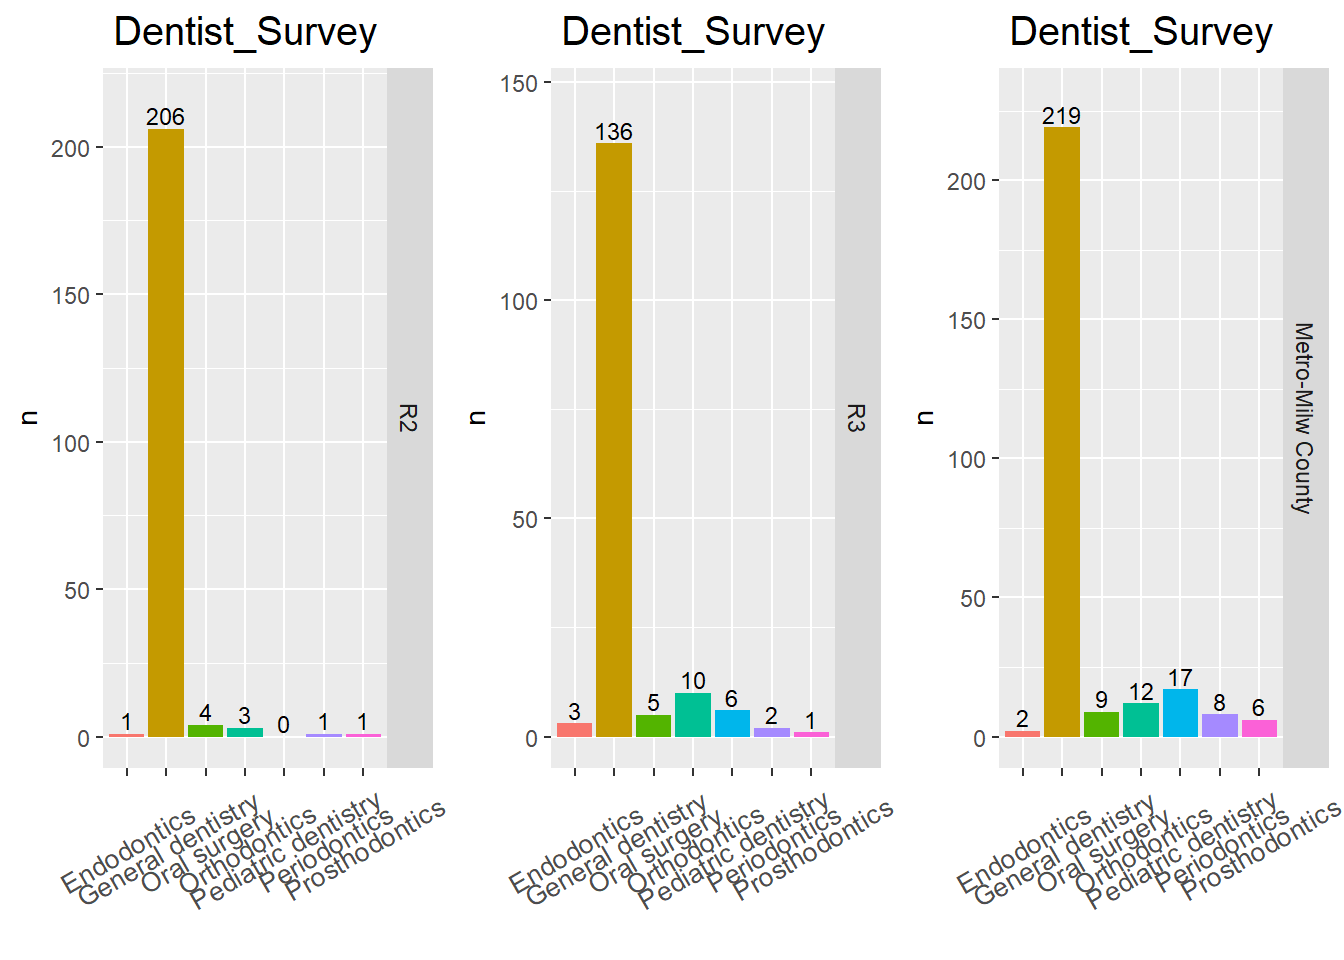
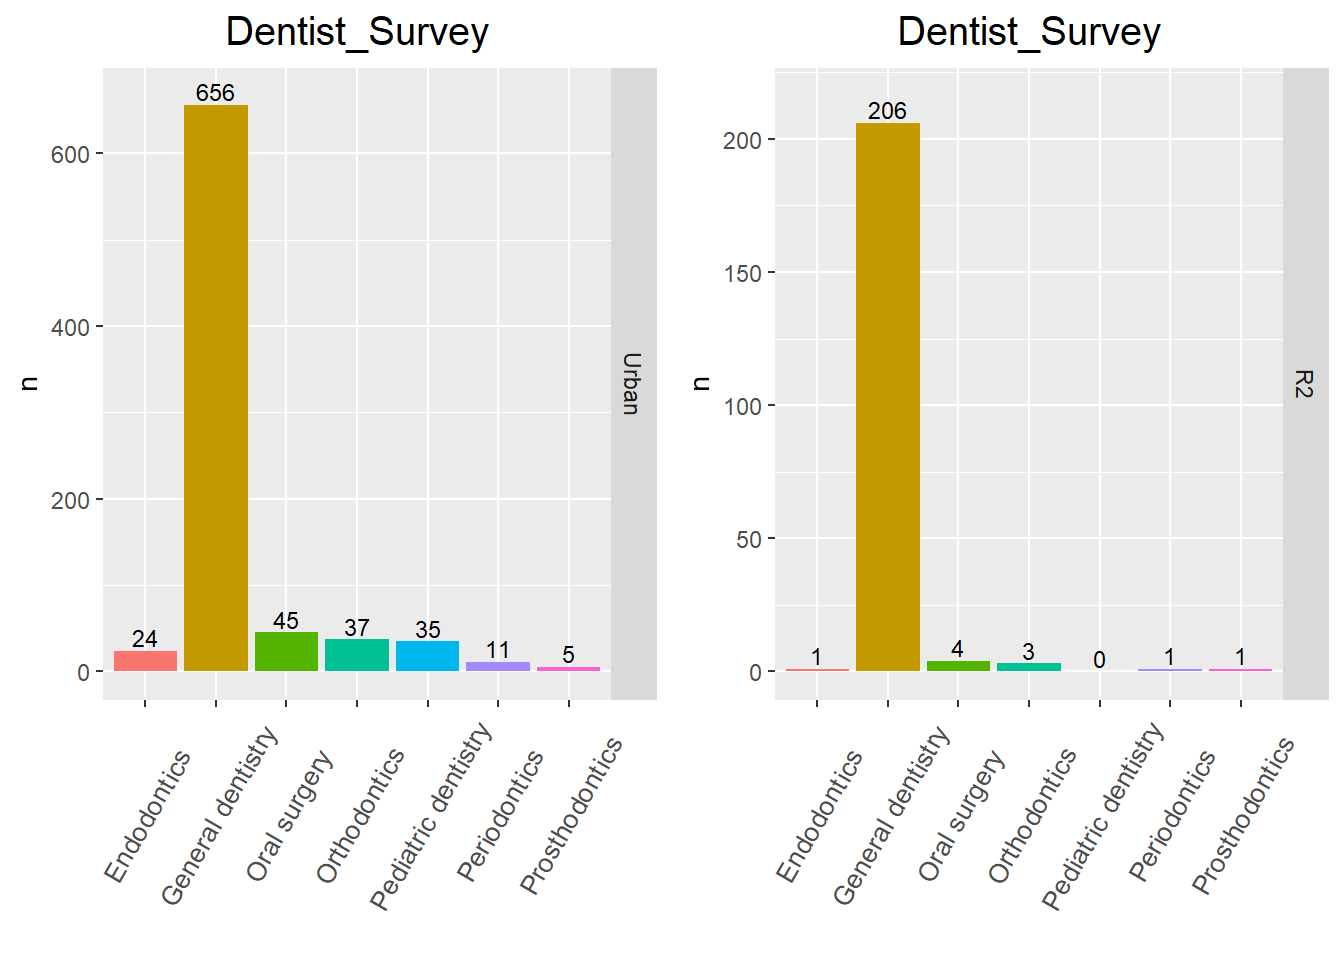
8/20/2024

diff --git a/docs/2024_0701_survey.html b/docs/2024_0701_survey.html
@@ -414,7 +414,7 @@ aria-hidden="true"></span> </a>
 <div class="tab-content">
 <div id="summary" class="tab-pane fade in active">
 <p>
-<strong>Last updated:</strong> 2024-08-16
+<strong>Last updated:</strong> 2024-08-20
 </p>
 <p>
 <strong>Checks:</strong> <span
@@ -574,15 +574,15 @@ analysis/Rfunctions.R
 <div class="panel panel-default">
 <div class="panel-heading">
 <p class="panel-title">
-<a data-toggle="collapse" data-parent="#workflowr-checks" href="#strongRepositoryversionstrongahrefhttpsgithubcomhan16Collaborationstreeb0b512ab0e8bbdc3198281baf00938adc002ccf1targetblankb0b512aa">
+<a data-toggle="collapse" data-parent="#workflowr-checks" href="#strongRepositoryversionstrongahrefhttpsgithubcomhan16Collaborationstree810a5b03eb7ce469937551267e6cfb4833933025targetblank810a5b0a">
 <span class="glyphicon glyphicon-ok text-success"
 aria-hidden="true"></span> <strong>Repository version:</strong>
-<a href="https://github.com/han16/Collaborations/tree/b0b512ab0e8bbdc3198281baf00938adc002ccf1" target="_blank">b0b512a</a>
+<a href="https://github.com/han16/Collaborations/tree/810a5b03eb7ce469937551267e6cfb4833933025" target="_blank">810a5b0</a>
 </a>
 </p>
 </div>
 <div
[2 lines of base64/hex data omitted]
 class="panel-collapse collapse">
 <div class="panel-body">
 <p>
@@ -592,7 +592,7 @@ reproducibility.
 </p>
 <p>
 The results in this page were generated with repository version
-<a href="https://github.com/han16/Collaborations/tree/b0b512ab0e8bbdc3198281baf00938adc002ccf1" target="_blank">b0b512a</a>.
+<a href="https://github.com/han16/Collaborations/tree/810a5b03eb7ce469937551267e6cfb4833933025" target="_blank">810a5b0</a>.
 See the <em>Past versions</em> tab to see a history of the changes made
 to the R Markdown and HTML files.
 </p>
@@ -658,6 +658,40 @@ Message
 </tr>
 </thead>
 <tbody>
+<tr>
+<td>
+Rmd
+</td>
+<td>
+<a href="https://github.com/han16/Collaborations/blob/810a5b03eb7ce469937551267e6cfb4833933025/analysis/2024_0701_survey.Rmd" target="_blank">810a5b0</a>
+</td>
+<td>
+han
+</td>
+<td>
+2024-08-16
+</td>
+<td>
+8/16/2024
+</td>
+</tr>
+<tr>
+<td>
+html
+</td>
+<td>
+<a href="https://rawcdn.githack.com/han16/Collaborations/810a5b03eb7ce469937551267e6cfb4833933025/docs/2024_0701_survey.html" target="_blank">810a5b0</a>
+</td>
+<td>
+han
+</td>
+<td>
+2024-08-16
+</td>
+<td>
+8/16/2024
+</td>
+</tr>
 <tr>
 <td>
 Rmd
@@ -1320,6 +1354,17 @@ Date
 <tbody>
 <tr>
 <td>
+<a href="https://github.com/han16/Collaborations/blob/810a5b03eb7ce469937551267e6cfb4833933025/docs/figure/2024_0701_survey.Rmd/unnamed-chunk-4-1.png" target="_blank">810a5b0</a>
+</td>
+<td>
+han
+</td>
+<td>
+2024-08-16
+</td>
+</tr>
+<tr>
+<td>
 <a href="https://github.com/han16/Collaborations/blob/6f9829aa17a61172a647e0faf5641a6bbc4419b2/docs/figure/2024_0701_survey.Rmd/unnamed-chunk-4-1.png" target="_blank">6f9829a</a>
 </td>
 <td>
@@ -1440,6 +1485,17 @@ Date
 <tbody>
 <tr>
 <td>
+<a href="https://github.com/han16/Collaborations/blob/810a5b03eb7ce469937551267e6cfb4833933025/docs/figure/2024_0701_survey.Rmd/unnamed-chunk-5-1.png" target="_blank">810a5b0</a>
+</td>
+<td>
+han
+</td>
+<td>
+2024-08-16
+</td>
+</tr>
+<tr>
+<td>
 <a href="https://github.com/han16/Collaborations/blob/d2b6989234f39215aa94b73a95f4ff8c7fdff404/docs/figure/2024_0701_survey.Rmd/unnamed-chunk-5-1.png" target="_blank">d2b6989</a>
 </td>
 <td>
@@ -1543,6 +1599,17 @@ Date
 </tr>
 </thead>
 <tbody>
+<tr>
+<td>
+<a href="https://github.com/han16/Collaborations/blob/810a5b03eb7ce469937551267e6cfb4833933025/docs/figure/2024_0701_survey.Rmd/unnamed-chunk-7-1.png" target="_blank">810a5b0</a>
+</td>
+<td>
+han
+</td>
+<td>
+2024-08-16
+</td>
+</tr>
 <tr>
 <td>
 <a href="https://github.com/han16/Collaborations/blob/6f9829aa17a61172a647e0faf5641a6bbc4419b2/docs/figure/2024_0701_survey.Rmd/unnamed-chunk-7-1.png" target="_blank">6f9829a</a>
@@ -1666,6 +1733,17 @@ Date
 <tbody>
 <tr>
 <td>
+<a href="https://github.com/han16/Collaborations/blob/810a5b03eb7ce469937551267e6cfb4833933025/docs/figure/2024_0701_survey.Rmd/unnamed-chunk-8-1.png" target="_blank">810a5b0</a>
+</td>
+<td>
+han
+</td>
+<td>
+2024-08-16
+</td>
+</tr>
+<tr>
+<td>
 <a href="https://github.com/han16/Collaborations/blob/d2b6989234f39215aa94b73a95f4ff8c7fdff404/docs/figure/2024_0701_survey.Rmd/unnamed-chunk-8-1.png" target="_blank">d2b6989</a>
 </td>
 <td>
@@ -1750,6 +1828,17 @@ Date
 </tr>
 </thead>
 <tbody>
+<tr>
+<td>
+<a href="https://github.com/han16/Collaborations/blob/810a5b03eb7ce469937551267e6cfb4833933025/docs/figure/2024_0701_survey.Rmd/unnamed-chunk-9-1.png" target="_blank">810a5b0</a>
+</td>
+<td>
+han
+</td>
+<td>
+2024-08-16
+</td>
+</tr>
 <tr>
 <td>
 <a href="https://github.com/han16/Collaborations/blob/f8cddd0d4e74966c695e9fecc1a3509c2d328621/docs/figure/2024_0701_survey.Rmd/unnamed-chunk-9-1.png" target="_blank">f8cddd0</a>
@@ -1965,7 +2054,7 @@ datatable(extensions = &#39;Buttons&#39;,
 </div>
 <div id="specialty-distribution" class="section level3">
 <h3>specialty distribution</h3>
-<pre class="r"><code>specialty=c(&quot;General dentistry&quot;, &quot;Endodontics&quot;, &quot;Orthodontics&quot;, &quot;Periodontics&quot;, &quot;Prosthodontics&quot;, &quot;Pediatric dentistry&quot;, &quot;Oral surgery&quot;)
+<pre class="r"><code>specialty=c(&quot;General dentistry&quot;, &quot;Endodontics&quot;, &quot;Orthodontics&quot;,&quot;Periodontics&quot;,  &quot;Prosthodontics&quot;, &quot;Pediatric dentistry&quot;, &quot;Oral surgery&quot;)
 specialty_geo=sapply(region_code_zip, function(x) Dentist_Survey$`Dentist Survey` %&gt;% filter(`5-digit Zip code` %in% x) %&gt;% filter(`Dental Specialties Board Certified` %in% specialty) %&gt;% select(`Dental Specialties Board Certified`))
 specialty_prop=sapply(specialty_geo, function(x) c(sum(x==&quot;General dentistry&quot;), sum(x==&quot;Endodontics&quot;), sum(x==&quot;Orthodontics&quot;), sum(x==&quot;Periodontics&quot;), sum(x==&quot;Prosthodontics&quot;), sum(x==&quot;Pediatric dentistry&quot;), sum(x==&quot;Oral surgery&quot;))) 
 specialty_geo_data=data.frame(geo=rep(region_code_update,each=length(specialty)), num=as.vector(specialty_prop), spect=rep(specialty, length(region_code_update))) %&gt;% drop_na()
@@ -1980,7 +2069,7 @@ for (i in 1:length(region_code_update))
   facet_grid(&quot;geo&quot;)+
   ylab(&quot;n&quot;)+xlab(&quot;&quot;)+
   theme(legend.position=&quot;&quot;)+
-  theme(axis.text.x = element_text(angle = 30, vjust = 0.5, size=10))+
+  theme(axis.text.x = element_text(angle = 60, vjust = 0.5, size=10))+
   geom_text(aes(label=num), position=position_dodge(width=0.9), vjust=-0.25, size=3)+  # add numbers over bars
   ggtitle(&quot;Dentist_Survey&quot;)+
   theme(plot.title = element_text(hjust = 0.5, size=15))  #center the title
@@ -1999,7 +2088,7 @@ pie_chart[[i]]=ggplot(data=pie_data)+
    
 }
   
-ggarrange(figures[[1]], figures[[2]], figures[[3]], figures[[4]], figures[[5]], figures[[6]], ncol=3)</code></pre>
+ggarrange(figures[[1]], figures[[2]], figures[[3]], figures[[4]], figures[[5]], figures[[6]], ncol=2)</code></pre>
 <pre><code>$`1`</code></pre>
 <p><img src="figure/2024_0701_survey.Rmd/unnamed-chunk-15-1.png" width="672" style="display: block; margin: auto;" /></p>
 <p>
@@ -2161,6 +2250,68 @@ han
 </td>
 <td>
 2024-08-12
+</td>
+</tr>
+</tbody>
+</table>
+</div>
+</div>
+<pre><code>
+$`3`</code></pre>
+<p><img src="figure/2024_0701_survey.Rmd/unnamed-chunk-15-3.png" width="672" style="display: block; margin: auto;" /></p>
+<p>
+<button type="button" class="btn btn-default btn-xs btn-workflowr btn-workflowr-fig" data-toggle="collapse" data-target="#fig-unnamed-chunk-15-3">
+Past versions of unnamed-chunk-15-3.png
+</button>
+</p>
+<div id="fig-unnamed-chunk-15-3" class="collapse">
+<div class="table-responsive">
+<table class="table table-condensed table-hover">
+<thead>
+<tr>
+<th>
+Version
+</th>
+<th>
+Author
+</th>
+<th>
+Date
+</th>
+</tr>
+</thead>
+<tbody>
+<tr>
+<td>
+<a href="https://github.com/han16/Collaborations/blob/6f9829aa17a61172a647e0faf5641a6bbc4419b2/docs/figure/2024_0701_survey.Rmd/unnamed-chunk-15-3.png" target="_blank">6f9829a</a>
+</td>
+<td>
+han
+</td>
+<td>
+2024-08-15
+</td>
+</tr>
+<tr>
+<td>
+<a href="https://github.com/han16/Collaborations/blob/fe7fa759bdd564dbea84799c8e8d0cada8550ab8/docs/figure/2024_0701_survey.Rmd/unnamed-chunk-15-3.png" target="_blank">fe7fa75</a>
+</td>
+<td>
+han
+</td>
+<td>
+2024-08-14
+</td>
+</tr>
+<tr>
+<td>
+<a href="https://github.com/han16/Collaborations/blob/e33c9bf2885ee935186ad42575dc22b2b11a556a/docs/figure/2024_0701_survey.Rmd/unnamed-chunk-15-3.png" target="_blank">e33c9bf</a>
+</td>
+<td>
+han
+</td>
+<td>
+2024-08-14
 </td>
 </tr>
 </tbody>
